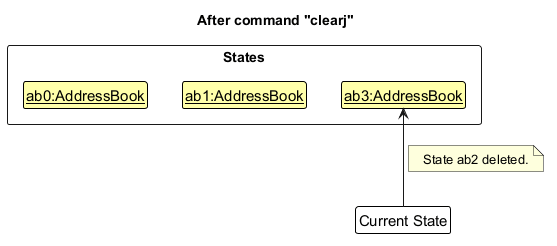
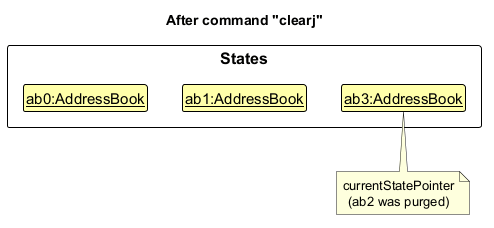
Initial undo/redo feature draft

Changed region(s): [[0.0, 0.1535, 1.0, 0.9518], [0.334, 0.0614, 0.668, 0.1228]]

diff --git a/docs/DeveloperGuide.md b/docs/DeveloperGuide.md
@@ -412,85 +412,111 @@ The command returns the clipboard text through `CommandResult`, and `MainWindow`
 
 #### Proposed Implementation
 
-The proposed undo/redo mechanism is facilitated by `VersionedAddressBook`. It extends `AddressBook` with an undo/redo history, stored internally as an `addressBookStateList` and `currentStatePointer`. Additionally, it implements the following operations:
+The proposed `undo` and `redo` commands are not implemented yet. They would reverse and reapply changes to the contact data, using a `VersionedAddressBook` that extends `AddressBook` with an undo/redo history. The history is stored internally as an `addressBookStateList` and a `currentStatePointer`, and is changed by the following operations:
 
-* `VersionedAddressBook#commit()` — Saves the current address book state in its history.
-* `VersionedAddressBook#undo()` — Restores the previous address book state from its history.
-* `VersionedAddressBook#redo()` — Restores a previously undone address book state from its history.
+* `VersionedAddressBook#commit()` — Saves the current address book data as a new state, unless the data already matches the state at `currentStatePointer`.
+* `VersionedAddressBook#undo()` — Restores the previous address book state from its history.
+* `VersionedAddressBook#redo()` — Restores a previously undone address book state from its history.
 
-These operations are exposed in the `Model` interface as `Model#commitAddressBook()`, `Model#undoAddressBook()` and `Model#redoAddressBook()` respectively.
+These operations are exposed in the `Model` interface as `Model#commitAddressBook()`, `Model#undoAddressBook()` and `Model#redoAddressBook()` respectively. `Model#canUndoAddressBook()` and `Model#canRedoAddressBook()` report whether there is a state to move to.
+
+The feature would change three existing parts of the app:
+
+* `ModelManager` holds a `VersionedAddressBook` in place of its `AddressBook`. Its filtered lists are built once from this object, so `undo()` and `redo()` update it in place with `resetData()` rather than replacing it.
+* `LogicManager#execute()` calls `Model#commitAddressBook()` after each successful save. Individual commands do not commit.
+* `AddressBookParser` and `CommandCatalogue` each gain `undo` and `redo`, which the code requires to be kept in sync.
 
 Given below is an example usage scenario and how the undo/redo mechanism behaves at each step.
 
-Step 1. The user launches the application for the first time. The `VersionedAddressBook` will be initialized with the initial address book state, and the `currentStatePointer` pointing to that single address book state.
+Step 1. The user launches the application. The `VersionedAddressBook` is initialized with the address book data loaded from storage as its only state, and `currentStatePointer` points to that state. The history is held only in memory, so it starts afresh on every launch.
 
 ![UndoRedoState0](images/UndoRedoState0.png)
 
-Step 2. The user executes `deletej 5` command to delete the 5th jobseeker in the jobseeker list. The `deletej` command calls `Model#commitAddressBook()`, causing the modified state of the address book after the `deletej 5` command executes to be saved in the `addressBookStateList`, and the `currentStatePointer` is shifted to the newly inserted address book state.
+Step 2. The user executes `deletej 5` to delete the 5th jobseeker in the displayed jobseeker list. After saving, `LogicManager` calls `Model#commitAddressBook()`. The data now differs from the current state, so it is added to `addressBookStateList`, and `currentStatePointer` moves to this new state.
 
 ![UndoRedoState1](images/UndoRedoState1.png)
 
-Step 3. The user executes `addj n/David …` to add a new jobseeker. The `addj` command also calls `Model#commitAddressBook()`, causing another modified address book state to be saved into the `addressBookStateList`.
+Step 3. The user executes `addj n/David …` to add a new jobseeker. `LogicManager` again calls `Model#commitAddressBook()`, which adds another state to `addressBookStateList`.
 
 ![UndoRedoState2](images/UndoRedoState2.png)
 
-<div markdown="span" class="alert alert-info">:information_source: **Note:** If a command fails its execution, it will not call `Model#commitAddressBook()`, so the address book state will not be saved into the `addressBookStateList`.
+<div markdown="span" class="alert alert-info">:information_source: **Note:** If parsing, execution or saving fails, `LogicManager` never reaches `Model#commitAddressBook()`, so no state is added to `addressBookStateList`.
 
 </div>
 
-Step 4. The user now decides that adding the jobseeker was a mistake, and decides to undo that action by executing the `undo` command. The `undo` command will call `Model#undoAddressBook()`, which will shift the `currentStatePointer` once to the left, pointing it to the previous address book state, and restores the address book to that state.
+Step 4. The user now decides that adding the jobseeker was a mistake, and executes the `undo` command. The command calls `Model#undoAddressBook()`, which moves `currentStatePointer` one state to the left and restores the address book to that state. `LogicManager` then saves the restored data as it does after any command, so the undo is also written to the save file. Its call to `Model#commitAddressBook()` has no effect, because the data matches the current state.
 
 ![UndoRedoState3](images/UndoRedoState3.png)
 
-<div markdown="span" class="alert alert-info">:information_source: **Note:** If the `currentStatePointer` is at index 0, pointing to the initial AddressBook state, then there are no previous AddressBook states to restore. The `undo` command uses `Model#canUndoAddressBook()` to check if this is the case. If so, it will return an error to the user rather
-than attempting to perform the undo.
+<div markdown="span" class="alert alert-info">:information_source: **Note:** If `currentStatePointer` is at index 0, there are no previous states to restore. The `undo` command uses `Model#canUndoAddressBook()` to check for this, and throws a `CommandException` rather than attempting the undo.
 
 </div>
 
-The following sequence diagram shows how an undo operation goes through the `Logic` component:
+The following sequence diagram shows how a successful undo goes through the `Logic` component:
 
 ![UndoSequenceDiagram](images/UndoSequenceDiagram-Logic.png)
 
-Similarly, how an undo operation goes through the `Model` component is shown below:
+Similarly, how an undo goes through the `Model` component is shown below:
 
 ![UndoSequenceDiagram](images/UndoSequenceDiagram-Model.png)
 
-The `redo` command does the opposite — it calls `Model#redoAddressBook()`, which shifts the `currentStatePointer` once to the right, pointing to the previously undone state, and restores the address book to that state.
+The `redo` command does the opposite: it calls `Model#redoAddressBook()`, which moves `currentStatePointer` one state to the right and restores the address book to that state.
 
-<div markdown="span" class="alert alert-info">:information_source: **Note:** If the `currentStatePointer` is at index `addressBookStateList.size() - 1`, pointing to the latest address book state, then there are no undone AddressBook states to restore. The `redo` command uses `Model#canRedoAddressBook()` to check if this is the case. If so, it will return an error to the user rather than attempting to perform the redo.
+<div markdown="span" class="alert alert-info">:information_source: **Note:** If `currentStatePointer` is at index `addressBookStateList.size() - 1`, there are no undone states to restore. The `redo` command uses `Model#canRedoAddressBook()` to check for this, and throws a `CommandException` rather than attempting the redo.
 
 </div>
 
-Step 5. The user then decides to execute the command `listj`. Commands that do not modify the address book, such as `listj`, will usually not call `Model#commitAddressBook()`, `Model#undoAddressBook()` or `Model#redoAddressBook()`. Thus, the `addressBookStateList` remains unchanged.
+Step 5. The user then executes `listj`. This command does not change the contact data, so the call to `Model#commitAddressBook()` has no effect and `addressBookStateList` remains unchanged. The same applies to find and copy commands, and to commands that return a no-change result, such as tagging a jobseeker with a tag they already have.
 
 ![UndoRedoState4](images/UndoRedoState4.png)
 
-Step 6. The user executes `clearj`, which calls `Model#commitAddressBook()`. Since the `currentStatePointer` is not pointing at the end of the `addressBookStateList`, all address book states after the `currentStatePointer` will be purged. Reason: It no longer makes sense to redo the `addj n/David …` command. This is the behavior that most modern desktop applications follow.
+Step 6. The user executes `clearj`. The data now differs from the current state, and `currentStatePointer` is not at the end of `addressBookStateList`, so `Model#commitAddressBook()` purges all states after the pointer before adding the new one. It no longer makes sense to redo the `addj n/David …` command, and most modern desktop applications behave the same way.
 
 ![UndoRedoState5](images/UndoRedoState5.png)
 
 The following activity diagram summarizes what happens when a user executes a new command:
 
-<img src="images/CommitActivityDiagram.png" width="250" />
+<img src="images/CommitActivityDiagram.png" width="350" />
+
+#### Failed saves
+
+If saving fails, `LogicManager` already restores the data from before the command through `Model#setAddressBook()`. That call does not change the history, which is enough for most commands because they have not committed yet. `undo` and `redo` are the exception, as they have already moved `currentStatePointer`. `LogicManager` must therefore also record the pointer's position before executing a command and put it back when a save fails, or the pointer and the data would no longer match.
+
+#### Filters
+
+Filters are not part of the address book data, so `undo` and `redo` leave the active filters and their descriptions unchanged. A restored contact therefore appears only if it matches the current filter, as with the `editj` command. For example, undoing `deletej` during a search restores the jobseeker to the data, but the jobseeker stays out of view until a list command is executed if they do not match the search.
 
 #### Design considerations:
 
 **Aspect: How undo & redo execute:**
 
-* **Alternative 1 (current choice):** Saves the entire address book.
-  * Pros: Easy to implement.
-  * Cons: May have performance issues in terms of memory usage.
+* **Alternative 1 (proposed choice):** Save the entire address book as a state.
+  * Pros: Easy to implement, and later commands that change data need no undo logic of their own.
+  * Cons: Uses more memory as the contact lists grow. The cost is limited because states can share `Person` objects, which are immutable, and copy only the two lists.
 
-* **Alternative 2:** Individual command knows how to undo/redo by
-  itself.
-  * Pros: Will use less memory (e.g. for `deletej`, just save the jobseeker being deleted).
-  * Cons: We must ensure that the implementation of each individual command is correct.
+* **Alternative 2:** Each command knows how to undo and redo itself.
+  * Pros: Uses less memory (e.g. for `deletej`, just save the jobseeker being deleted).
+  * Cons: All 16 commands that change data need correct undo and redo logic, and each new one adds to this.
 
-_{more aspects and alternatives to be added}_
+**Aspect: Where the state is committed:**
 
-### \[Proposed\] Data archiving
+* **Alternative 1 (proposed choice):** `LogicManager` commits after each successful save, and `commit()` ignores data that matches the current state.
+  * Pros: Needs one call only. Failed saves, read-only commands, no-change results, `undo` and `redo` all add no state, without any command having to handle them.
+  * Cons: Compares the address book data after every command, including read-only ones.
 
-_{Explain here how the data archiving feature will be implemented}_
+* **Alternative 2:** Each command that changes data calls `Model#commitAddressBook()` itself.
+  * Pros: Which commands can be undone is explicit in each command's code.
+  * Cons: Commands run before the save, so a failed save would leave a state in the history for data that was rolled back. Each of the 16 commands must also remember the call and skip it on a no-change result.
+
+**Aspect: How jobseeker and client changes share a history:**
+
+* **Alternative 1 (proposed choice):** One history and one `undo` command, covering both lists.
+  * Pros: Matches what the user expects, as `undo` always reverses the latest change. A state already holds both lists.
+  * Cons: Undoing an older jobseeker change also undoes any later client changes.
+
+* **Alternative 2:** Separate histories, with `undoj` and `undoc` commands.
+  * Pros: Follows the naming of the other commands, and each list can be undone independently.
+  * Cons: Needs two histories, and the user must remember which list they changed last.
 
 
 --------------------------------------------------------------------------------------------------------------------
